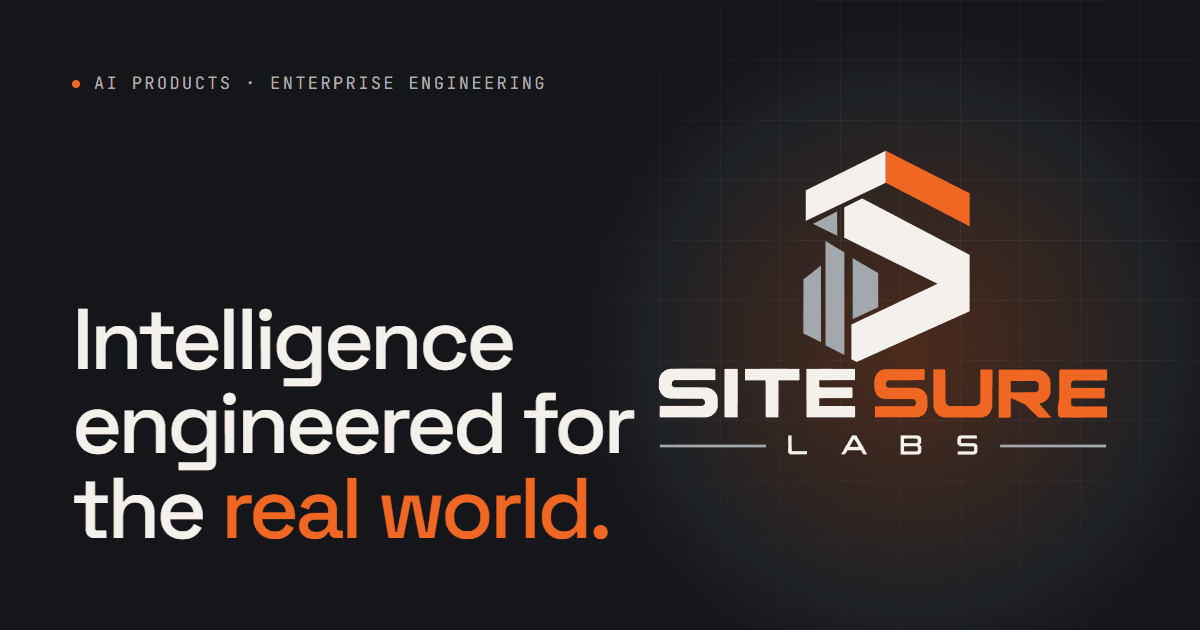
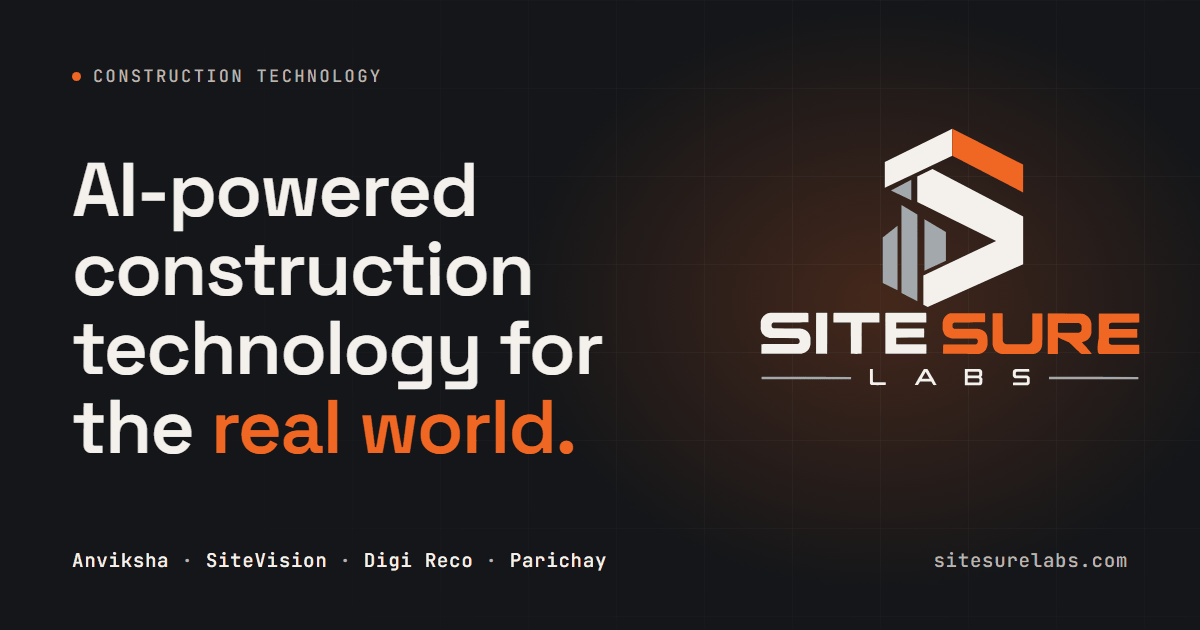
SEO: approve the three articles, strict production image build, new og-image
- Articles approved by the owner (review: 'approved'); they are now public:
  indexable, in the sitemap, nav, blog list and llms.txt.
- Dockerfile sets SEO_REQUIRE_REVIEWED=1 so an image cannot contain an
  unapproved article.
- New og-image (90 KB) matching the approved positioning.
- Test for the approved-article state.

diff --git a/frontend/src/data/articles.ts b/frontend/src/data/articles.ts
@@ -44,7 +44,7 @@ export interface Article {
 export const articles: Article[] = [
   {
     slug: 'digital-construction-inspection-guide',
-    review: 'pending', // Anviksha team
+    review: 'approved', // approved by the owner 2026-11-04; Anviksha team to confirm product statements
     title: 'Digital Construction Inspection: A Practical Guide',
     seoTitle: 'Digital Construction Inspection: A Practical Guide',
     description: 'What digital construction inspection is, how a site inspection runs from capture to closure, what to look for in software, and where AI helps and where it does not.',
@@ -102,7 +102,7 @@ export const articles: Article[] = [
   },
   {
     slug: 'manual-vs-ai-construction-inspection',
-    review: 'pending', // Anviksha team
+    review: 'approved', // approved by the owner 2026-11-04; Anviksha team to confirm product statements
     title: 'Manual vs AI-Powered Construction Inspections',
     seoTitle: 'Manual vs AI-Powered Construction Inspections',
     description: 'A practical comparison of manual and AI-assisted construction inspections: what changes in speed, consistency and records, what does not change, and how to combine both.',
@@ -161,7 +161,7 @@ export const articles: Article[] = [
   },
   {
     slug: '360-degree-construction-documentation',
-    review: 'pending', // SiteVision team
+    review: 'approved', // approved by the owner 2026-11-04; SiteVision team to confirm product statements
     title: '360° Construction Site Documentation: How It Works',
     seoTitle: '360° Construction Site Documentation: How It Works',
     description: 'How 360 degree construction site documentation works: capturing against floor plans, building walkthroughs, tracking progress over time, and the limits of what images can show.',
